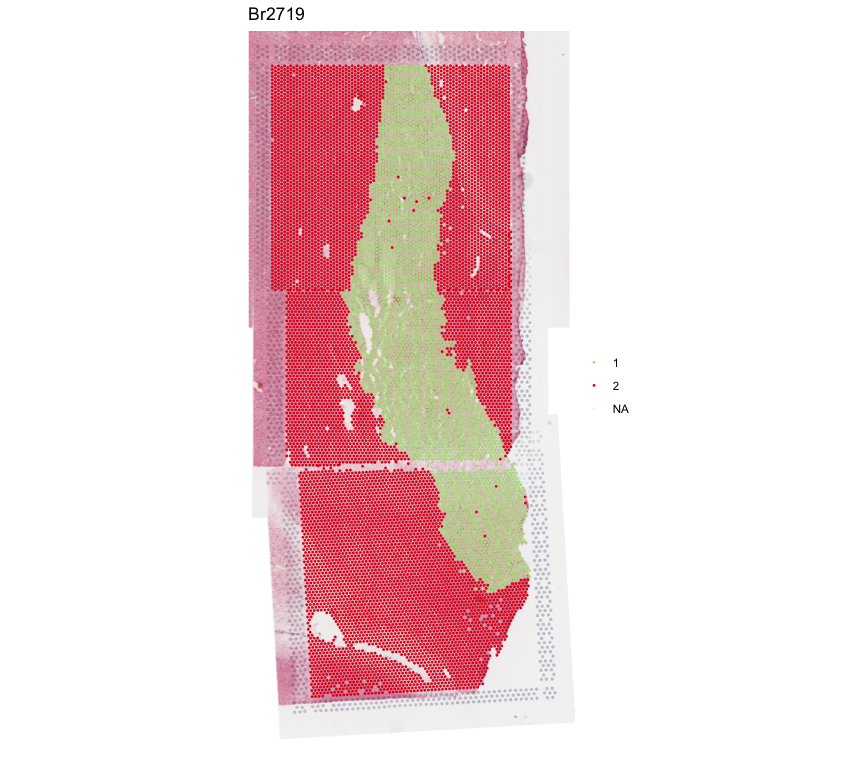
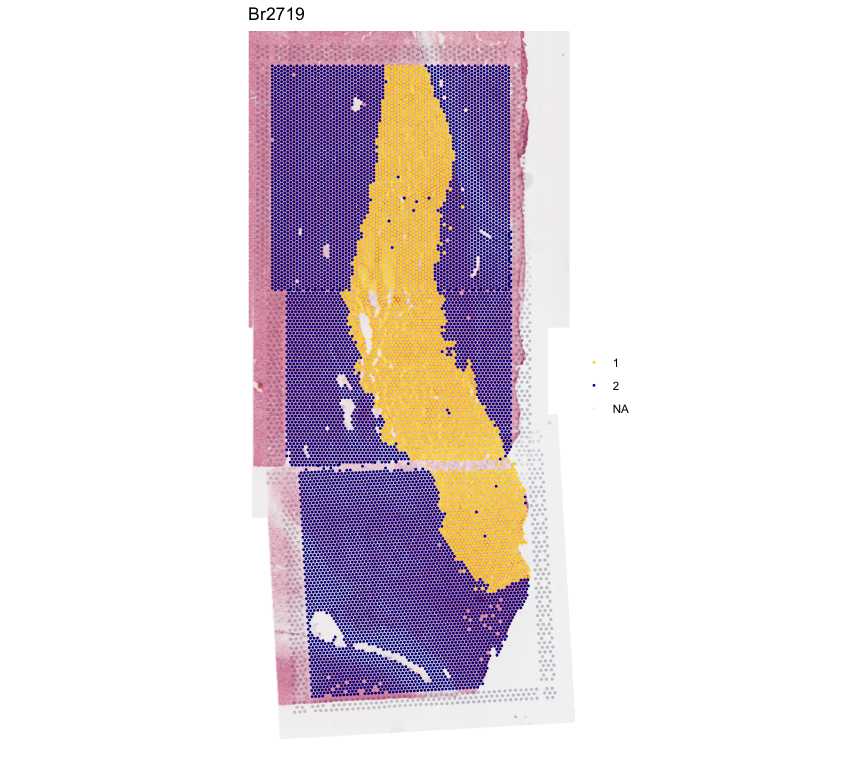
Edit the README. Describe the study design, re-order sections, add links to for the main external software we talk about, change colors used for k = 2, edit text.

Changed region(s): [[0.3125, 0.0625, 0.625, 0.9062]]

diff --git a/README.md b/README.md
@@ -10,7 +10,7 @@ This repository contains the data used to demonstrate the utility of
 Three
 [Visium](https://www.10xgenomics.com/products/spatial-gene-expression)
 capture areas were collected from the postmortem human brain from one
-donor. We use [Fiji](https://imagej.net/software/fiji/) and
+donor. We used [Fiji](https://imagej.net/software/fiji/) and
 `visiumStitched` to stitch the gene-expression and imaging data into one
 sample for downstream analysis.
 
@@ -23,34 +23,51 @@ Thank you for your interest in our work!
 
 ## Study Design
 
-TODO: add figure 1 and caption
+<img src="img/data_generation.png" align="center" />
 
-## Internal
+**Figure 1. Experimental design to generate spatially-resolved
+transcriptomics (SRT) data on three Visium capture arrays in the human
+brain.**
 
-- JHPCE location:
-  `/dcs05/lieber/lcolladotor/visiumStitched_LIBD1070/visiumStitched_brain`.
-
-The code in this repository follows the organization from
-<https://github.com/LieberInstitute/template_project> following the
-guidelines from
-[organizing-your-work](https://lcolladotor.github.io/bioc_team_ds/organizing-your-work.html#.YzL43uzMKX0).
+**(A)** Schematics illustrating a coronal human brain hemisphere at the
+level of the anterior striatum. Inset showing an illustration of the
+lateral side of the brain with a vertical red line depicting the
+location of the coronal slab. CC – cerebral cortex, C – caudate nucleus,
+P – putamen, WM – white matter. **(B)** Raw coronal brain slab,
+dissected tissue block with an indicated score line, and H&E staining of
+the 10 µm section taken from the same block. **(C)** A diagram depicting
+how tissue sections were arranged on the Visium slide with capture
+arrays A1 (blue) and D1 (yellow) arranged partially overlapping, while
+capture arrays D1 (yellow) and C1 (red) arranged adjacent to each other
+across a score line.
 
 ## Introductory Material
 
-Check out [this
-guide](http://research.libd.org/visiumStitched/articles/full_demo.html)
-to using `visiumStitched`, which enabled the integration of all three
-capture areas for this project.
+Here is a short overview video of the stitching steps performed with
+[`Fiji`](https://imagej.net/software/fiji/).
 
 <iframe width="560" height="315" src="https://www.youtube.com/embed/kFLtpK3qbSY?si=u6bIKY5U9yccx62R" title="YouTube video player" frameborder="0" allow="accelerometer; autoplay; clipboard-write; encrypted-media; gyroscope; picture-in-picture; web-share" referrerpolicy="strict-origin-when-cross-origin" allowfullscreen data-external="1">
 </iframe>
 
+Check out [this
+guide](https://research.libd.org/visiumStitched/articles/visiumStitched.html)
+describing how to use `visiumStitched` with the outputs of `Fiji`, which
+enabled the integration of all three capture areas for this project.
+This resulted in a
+[`SpatialExperiment`](https://doi.org/10.1093/bioinformatics/btac299)
+object that can be used seamlessly for downstream analyses steps, such
+as performing spatially-aware clustering with tools such as
+[`BayesSpace`](https://doi.org/10.1038/s41587-021-00935-2) and
+[`PRECAST`](https://doi.org/10.1038/s41467-023-35947-w).
+
 ## Interactive Websites
 
-Explore the [Shiny app](https://libd.shinyapps.io/visiumStitched_brain),
-powered by [spatialLIBD](https://doi.org/10.1186/s12864-022-08601-w).
+Explore the stitched example data using the [interactive
+website](https://libd.shinyapps.io/visiumStitched_brain), powered by
+[spatialLIBD](https://doi.org/10.1186/s12864-022-08601-w).
 
-Alternatively, you may choose to run the app locally with
+Alternatively, you may choose to run the interactive website locally
+with
 [`spatialLIBD::run_app()`](http://research.libd.org/spatialLIBD/reference/run_app.html),
 which gives more freedom regarding memory usage and session length. See
 [this
@@ -60,10 +77,13 @@ arguments.
 
 ## R Objects
 
-The transcriptomics data, SpaceRanger outputs, and Fiji outputs are all
-available through `spatialLIBD::fetch_data()`. A comprehensive vignette
-using these objects is written
-[here](http://research.libd.org/visiumStitched/articles/full_demo.html).
+For this human brain dataset composed of 3 Visium capture areas, the
+transcriptomics data,
+[`SpaceRanger`](https://www.10xgenomics.com/support/software/space-ranger/latest/analysis/running-pipelines/space-ranger-count)
+outputs, and [`Fiji`](https://imagej.net/software/fiji/) outputs are all
+available through `spatialLIBD::fetch_data()` (version 1.17.8 or newer).
+A comprehensive vignette using these objects is written
+[here](https://research.libd.org/visiumStitched/articles/visiumStitched.html).
 
 ``` r
 ## Check that you have a recent version of spatialLIBD installed
@@ -71,7 +91,7 @@ stopifnot(packageVersion("spatialLIBD") >= "1.17.6")
 
 ## Download the spot-level data, which is a SpatialExperiment object
 spe <- spatialLIBD::fetch_data(type = "visiumStitched_brain_spe")
-#> 2024-07-26 18:01:28.079164 loading file /Users/leocollado/Library/Caches/org.R-project.R/R/BiocFileCache/154352e7328f0_visiumStitched_brain_spe.rds%3Frlkey%3Dnq6a82u23xuu9hohr86oodwdi%26dl%3D1
+#> 2024-07-26 18:22:23.138864 loading file /Users/leocollado/Library/Caches/org.R-project.R/R/BiocFileCache/154352e7328f0_visiumStitched_brain_spe.rds%3Frlkey%3Dnq6a82u23xuu9hohr86oodwdi%26dl%3D1
 spe
 #> class: SpatialExperiment 
 #> dim: 26369 13965 
@@ -91,14 +111,48 @@ spe
 #> imgData names(4): sample_id image_id data scaleFactor
 
 ## Show clustering results from PRECAST at k = 2
-spatialLIBD::vis_clus(spe, clustervar = 'precast_k2', is_stitched = TRUE)
+spatialLIBD::vis_clus(
+    spe,
+    clustervar = 'precast_k2',
+    is_stitched = TRUE,
+    colors = c(
+        "1" = "gold",
+        "2" = "darkblue",
+        "NA" = "white"
+    )
+)
 ```
 
 <img src="img/pull_data-1.png" width="100%" />
 
 ## Citing Our Work
 
-TODO: manuscript citation
+Below is the citation output from using `citation('visiumStitched')` in
+R. Please run this yourself to check for any updates on how to cite
+**visiumStitched**.
+
+``` r
+print(citation("visiumStitched")[2], bibtex = TRUE)
+#> Eagles NJ, Bach S, Tippani M, Du Y, Miller RA, Hyde TM, Page SC,
+#> Martinowich K, Collado-Torres L (2024). "visiumStitched." _bioRxiv_.
+#> doi:10.1101/TODO <https://doi.org/10.1101/TODO>,
+#> <https://www.biorxiv.org/content/10.1101/TODO>.
+#> 
+#> A BibTeX entry for LaTeX users is
+#> 
+#>   @Article{,
+#>     title = {visiumStitched},
+#>     author = {Nicholas J. Eagles and Svitlana Bach and Madhavi Tippani and Yufeng Du and Ryan A. Miller and Thomas M. Hyde and Stephanie C. Page and Keri Martinowich and Leonardo Collado-Torres},
+#>     year = {2024},
+#>     journal = {bioRxiv},
+#>     doi = {10.1101/TODO},
+#>     url = {https://www.biorxiv.org/content/10.1101/TODO},
+#>   }
+```
+
+Please note that `visiumStiched` was only made possible thanks to many
+other R and bioinformatics software authors, which are cited either in
+the vignettes and/or the paper(s) describing the package.
 
 ### Cite `spatialLIBD`
 
@@ -127,6 +181,12 @@ print(citation("spatialLIBD")[1], bibtex = TRUE)
 #>   }
 ```
 
-Please note that `spatialLIBD` was only made possible thanks to many
-other R and bioinformatics software authors, which are cited either in
-the vignettes and/or the paper(s) describing the package.
+## Internal
+
+- JHPCE location:
+  `/dcs05/lieber/lcolladotor/visiumStitched_LIBD1070/visiumStitched_brain`.
+
+The code in this repository follows the organization from
+<https://github.com/LieberInstitute/template_project> following the
+guidelines from
+[organizing-your-work](https://lcolladotor.github.io/bioc_team_ds/organizing-your-work.html#.YzL43uzMKX0).
